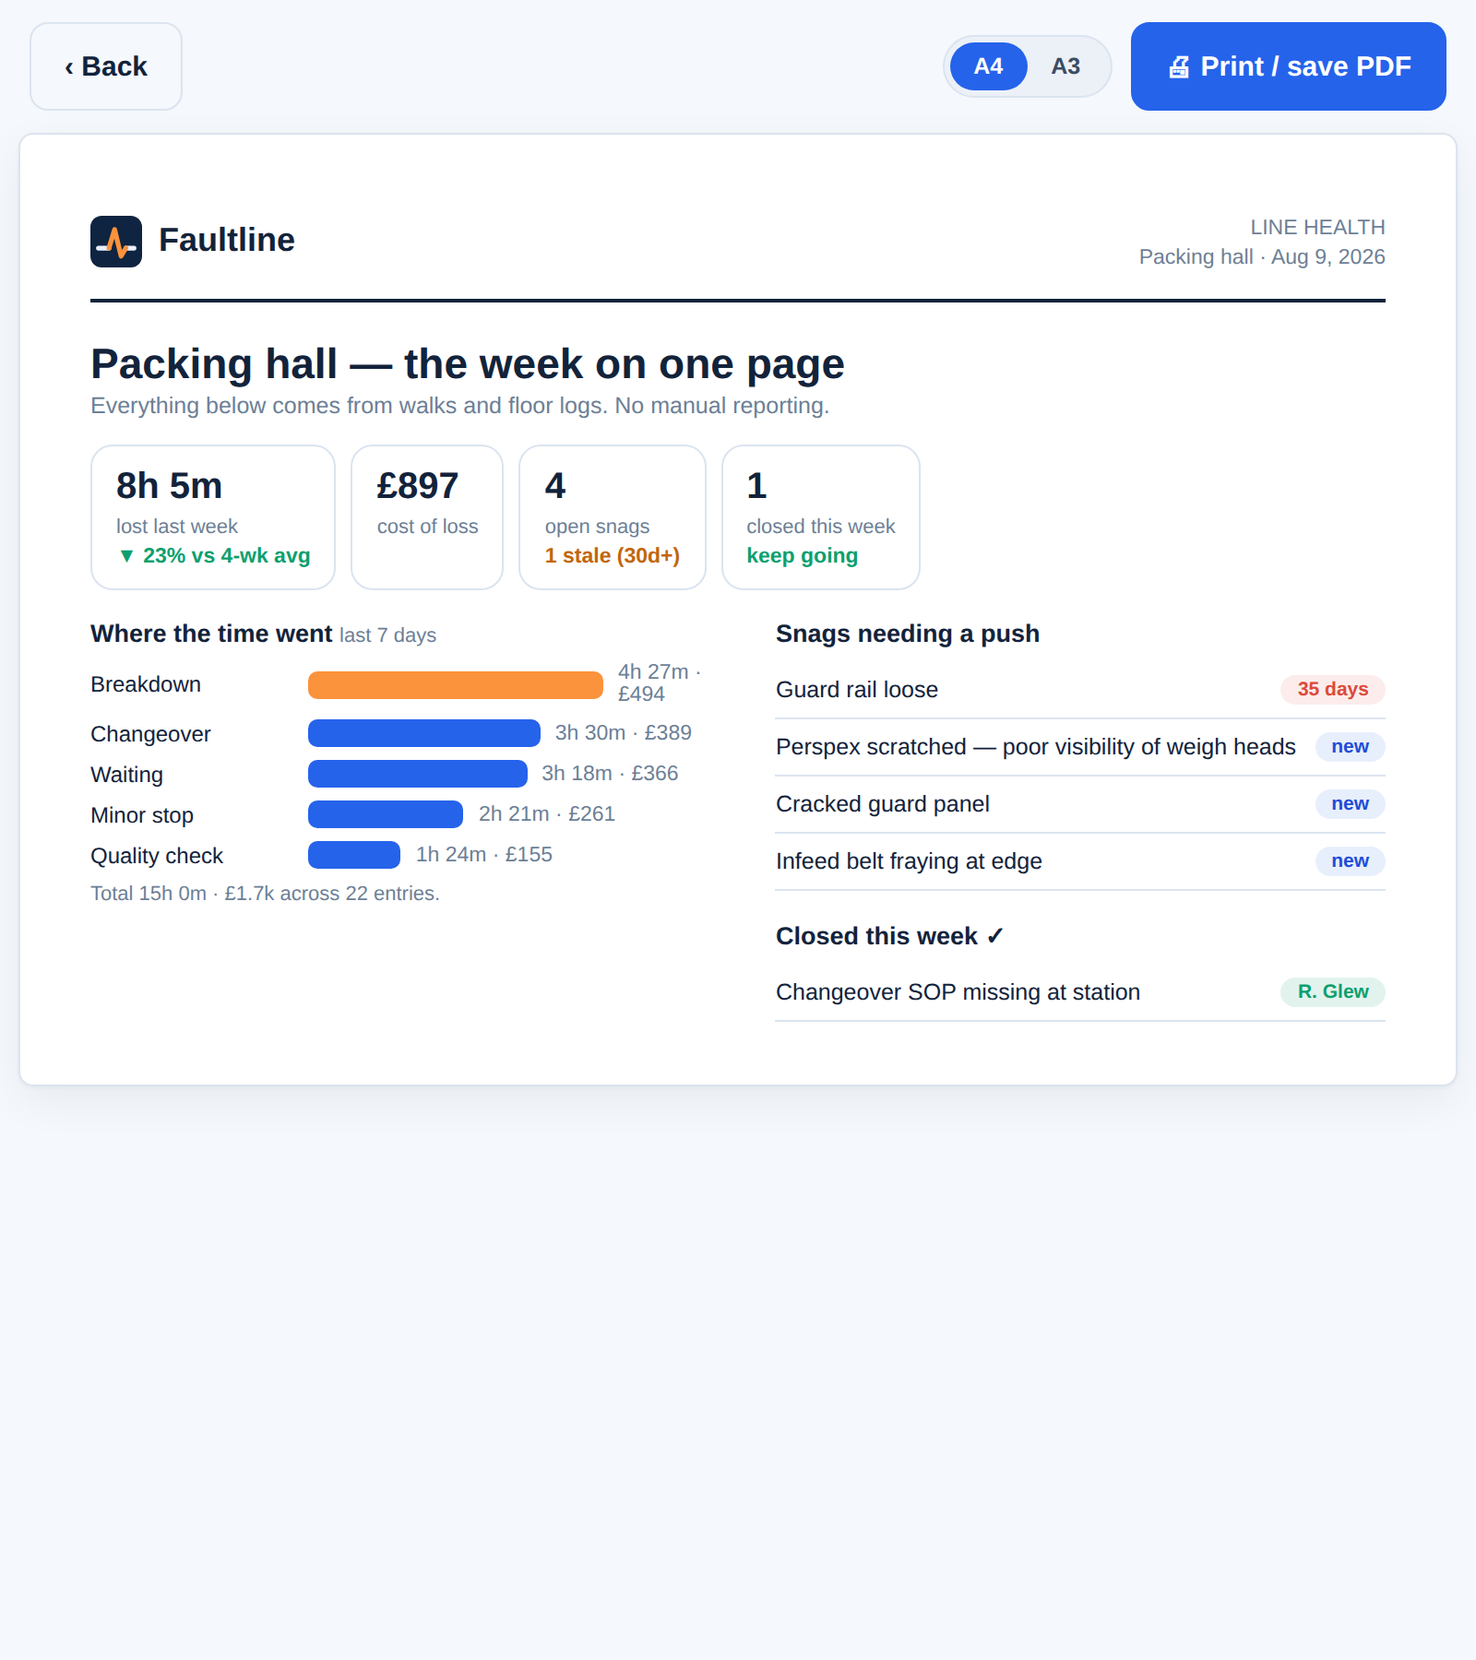
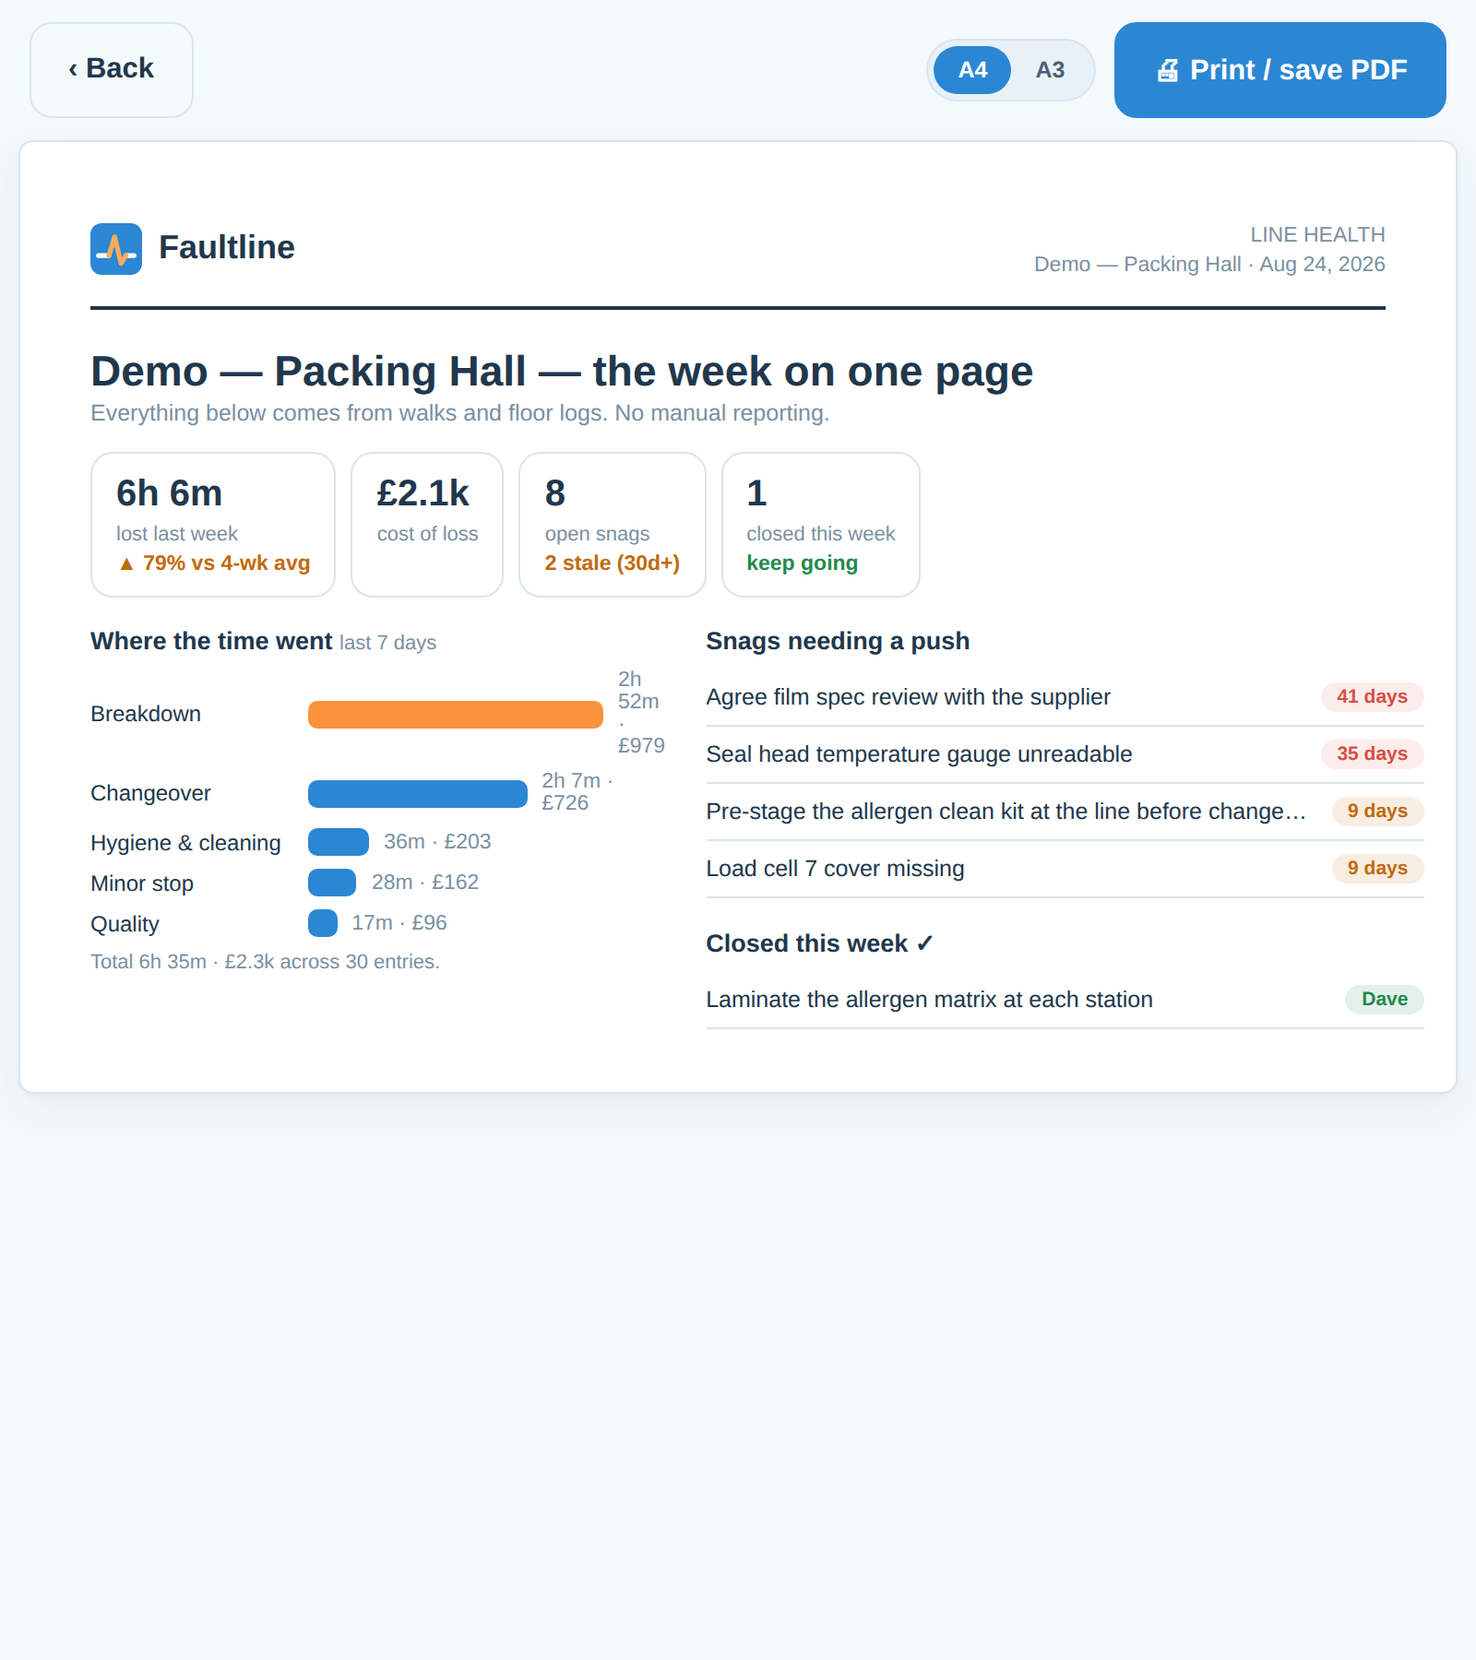
The guide moves onto the landing page — real screens, new Line chapter
Nobody clicks links on a landing page, and plenty of visitors never press
play — so the how-it-works story now renders inline below the demo film:
the same chapters, real screens, one sentence each. One source of truth
(GuideContent.tsx) rendered on both the landing page and /guide, which
stays alive as the standalone shareable page for invitees.

- New Part 3 "The living line": the £-heat glow and the proof layer with
  receipts hanging on the machines — the tour finally shows the Line.
- All ten screenshots re-shot from the current seeded demo (the old set
  predated the calm redesign, the measure picker, the period chips and the
  Line entirely). History now shows a genuine then-vs-now: two walks side
  by side, snags closed since.
- "See how it works" on the hero smooth-scrolls to the inlined story; the
  video fallback text points at the screens below it.
- Removed two orphaned images (home.png, snaglist.png) nothing referenced.

Claude-Session: https://claude.ai/code/session_01R9xEKpKx4MhrwQdL2qfDqa

diff --git a/src/screens/GuideContent.tsx b/src/screens/GuideContent.tsx
@@ -1,0 +1,143 @@
+/* The "how it works" story — ONE source of truth, rendered in two places:
+ * inline on the landing page (the scroll-past-the-film pitch) and standalone
+ * at /guide (the page an invitee reads, and the link a consultant shares).
+ * Every picture is the real product, screenshotted from a seeded workspace,
+ * so what a customer sees here is exactly what they get. Images live in
+ * /guide and are deliberately NOT precached — first visits, not offline. */
+
+interface Step { n: string; title: string; body: string; img: string; wide?: boolean }
+/* The tour runs in the order you'd actually work: find the losses (Pareto),
+ * pin the faults (snags), stand on the line (the layers), then prove it and
+ * print it (reports). */
+const CHAPTERS: Array<{ part: string; label: string; lede: string; steps: Step[] }> = [
+  {
+    part: 'Part 1', label: 'The Pareto system',
+    lede: 'Log what you see on the floor, and the losses rank themselves.',
+    steps: [
+      {
+        n: '1', img: 'capture',
+        title: 'Walk the line. Log what you see.',
+        body: 'Tap the asset, tap what you saw, put a time to it — stopwatch it live, type it, or just log that it happened. Photo or video evidence attaches in one tap. It works with no signal; everything syncs itself later.',
+      },
+      {
+        n: '2', img: 'pareto',
+        title: 'See where the line is bleeding — in hours and pounds.',
+        body: 'Every log lands on a live Pareto: the vital few problems ranked by lost time and what they cost in idle labour. The big bar on the left is where your week is going.',
+      },
+      {
+        n: '3', img: 'drill',
+        title: 'Tap a bar. Ask why.',
+        body: 'Drill from the problem into the kind of problem, the machine it lives on, the shift it bites hardest. Three taps from "we lose time to changeovers" to "size changes on the filler, on lates". That\'s where the fix goes.',
+      },
+      {
+        n: '4', img: 'present', wide: true,
+        title: 'Present it. Boardroom standard, straight from the floor.',
+        body: 'One tap turns the same live numbers into a full-screen stage — headline hours and cost, the ranked bars, the story so far. No export, no slide deck, no "let me get back to you".',
+      },
+    ],
+  },
+  {
+    part: 'Part 2', label: 'The snag system',
+    lede: 'Film the walk, and pin every fault to the exact spot on the machine.',
+    steps: [
+      {
+        n: '5', img: 'asset',
+        title: 'Film the walk. Pin the faults.',
+        body: "Film the line on your phone, freeze any frame into a named machine, and drop a red dot exactly where the problem is. Every snag gets an owner, a status, and an age — so it can't quietly rot in a notebook.",
+      },
+      {
+        n: '6', img: 'history',
+        title: 'The same machine, then vs now.',
+        body: 'Walk the line again next month and Faultline lines the walks up: the same machine side by side across time, snags visibly closed, new ones visibly appearing, and the one that\'s been open 200 days impossible to ignore.',
+      },
+    ],
+  },
+  {
+    part: 'Part 3', label: 'The living line',
+    lede: 'Your machines in floor order — and every number lands on the machine it belongs to.',
+    steps: [
+      {
+        n: '7', img: 'line',
+        title: 'The line itself, glowing where it hurts.',
+        body: 'Every marked machine becomes a card in walking order, built straight from your own footage. Flip to £ heat and the machine bleeding most literally glows — the Pareto\'s verdict, standing on the equipment that earned it.',
+      },
+      {
+        n: '8', img: 'line-proof',
+        title: 'Receipts, hanging on the machines.',
+        body: 'The proof layer puts each case where it physically lives: a proven fix wears its ✓ £/week receipt on the machine it fixed, and the case still being worked says so. Tap either and you\'re on its A3.',
+      },
+    ],
+  },
+  {
+    part: 'Part 4', label: 'The report system',
+    lede: 'Proof it\'s working — without writing a single report.',
+    steps: [
+      {
+        n: '9', img: 'trend',
+        title: 'Prove it\'s getting better.',
+        body: 'Lost hours per week, falling — with a green flag on the week each fix landed. And the honest list underneath: which losses are responding, and which are flat and need a different idea.',
+      },
+      {
+        n: '10', img: 'report', wide: true,
+        title: 'The week on one page.',
+        body: 'One tap turns it all into a clean page — lost time, cost, who closed what, what needs a push — ready to print (A4 or A3) or save as a PDF for Monday\'s meeting. No manual reporting, ever.',
+      },
+    ],
+  },
+];
+
+const EXPECT: Array<[string, string]> = [
+  ['Invite-only', 'No public sign-up. Your admin invites you by email; you set your own password.'],
+  ['Your workspace, your team', 'Every workspace is its own room. Whoever opens it chooses who\'s in it — add a colleague by email in Settings and they get the whole history, not just what happens next.'],
+  ['Works offline', 'Capture with no signal on the floor. It saves on the device and syncs itself when you\'re back in coverage.'],
+  ['Syncs by itself', 'No sync buttons. Log on the phone, and it\'s on the laptop seconds later.'],
+  ['Phone footage just works', 'Videos are converted on the way in so they play on every device — laptops included.'],
+  ['Install it like an app', 'Add it to your home screen from the browser — it opens full-screen and works like a native app.'],
+  ['The trend takes two weeks', 'Honest charts need history. Capture for a couple of weeks and "Is it getting better?" starts telling the truth.'],
+];
+
+export function GuideChapters() {
+  return (
+    <>
+      {CHAPTERS.map(ch => (
+        <section key={ch.part} className="guide-chapter">
+          <div className="guide-chapter-head">
+            <span className="guide-chapter-part">{ch.part}</span>
+            <h2 className="guide-chapter-title">{ch.label}</h2>
+            <p className="guide-chapter-lede">{ch.lede}</p>
+          </div>
+          <div className="guide-steps">
+            {ch.steps.map(s => (
+              <div key={s.n} className={'guide-step' + (s.wide ? ' wide' : '')}>
+                <div className="guide-copy">
+                  <span className="guide-n">{s.n}</span>
+                  <h2>{s.title}</h2>
+                  <p>{s.body}</p>
+                </div>
+                <div className={'guide-shot' + (s.wide ? ' wide' : '')}>
+                  <img src={`/guide/${s.img}.png`} alt={s.title} loading="lazy" />
+                </div>
+              </div>
+            ))}
+          </div>
+        </section>
+      ))}
+    </>
+  );
+}
+
+export function GuideExpect() {
+  return (
+    <section className="guide-expect">
+      <h2>What to expect</h2>
+      <div className="guide-expect-grid">
+        {EXPECT.map(([t, d]) => (
+          <div key={t} className="guide-expect-item">
+            <b>{t}</b>
+            <span>{d}</span>
+          </div>
+        ))}
+      </div>
+    </section>
+  );
+}

diff --git a/src/screens/GuideScreen.tsx b/src/screens/GuideScreen.tsx
@@ -1,84 +1,10 @@
-/* The public "how it works" tour — reachable signed OUT (it's the page an
- * invitee reads before creating their account) and from inside the app. Every
- * picture is the real product, screenshotted from a seeded workspace, so what
- * a customer sees here is exactly what they get. Images live in /guide and are
- * deliberately NOT precached — this page is for first visits, not offline. */
+/* The public "how it works" page — reachable signed OUT (it's the page an
+ * invitee reads before creating their account, and the link a consultant
+ * shares on its own). The story itself lives in GuideContent, shared with
+ * the landing page — one source of truth, two doors. */
 import { nav } from '../state/useRoute';
 import { LogoMark } from '../ui/Logo';
-
-interface Step { n: string; title: string; body: string; img: string; wide?: boolean }
-/* The tour runs in the order you'd actually work: find the losses (Pareto),
- * pin the faults (snags), then prove it and print it (reports). */
-const CHAPTERS: Array<{ part: string; label: string; lede: string; steps: Step[] }> = [
-  {
-    part: 'Part 1', label: 'The Pareto system',
-    lede: 'Log what you see on the floor, and the losses rank themselves.',
-    steps: [
-      {
-        n: '1', img: 'capture',
-        title: 'Walk the line. Log what you see.',
-        body: 'Tap the asset, tap what you saw, put a time to it — stopwatch it live, type it, or just log that it happened. Photo or video evidence attaches in one tap. It works with no signal; everything syncs itself later.',
-      },
-      {
-        n: '2', img: 'pareto',
-        title: 'See where the line is bleeding — in hours and pounds.',
-        body: 'Every log lands on a live Pareto: the vital few problems ranked by lost time and what they cost in idle labour. The big bar on the left is where your week is going.',
-      },
-      {
-        n: '3', img: 'drill',
-        title: 'Tap a bar. Ask why.',
-        body: 'Drill from the problem into the kind of problem, the machine it lives on, the shift it bites hardest. Three taps from "we lose time to changeovers" to "size changes on the filler, on lates". That\'s where the fix goes.',
-      },
-      {
-        n: '4', img: 'present', wide: true,
-        title: 'Present it. Boardroom standard, straight from the floor.',
-        body: 'One tap turns the same live numbers into a full-screen stage — headline hours and cost, the ranked bars, the story so far. No export, no slide deck, no "let me get back to you".',
-      },
-    ],
-  },
-  {
-    part: 'Part 2', label: 'The snag system',
-    lede: 'Film the walk, and pin every fault to the exact spot on the machine.',
-    steps: [
-      {
-        n: '5', img: 'asset',
-        title: 'Film the walk. Pin the faults.',
-        body: "Film the line on your phone, freeze any frame into a named machine, and drop a red dot exactly where the problem is. Every snag gets an owner, a status, and an age — so it can't quietly rot in a notebook.",
-      },
-      {
-        n: '6', img: 'history',
-        title: 'The same machine, then vs now.',
-        body: 'Walk the line again next month and Faultline lines the walks up: the same machine side by side across time, snags visibly closed, new ones visibly appearing, and the one that\'s been open 200 days impossible to ignore.',
-      },
-    ],
-  },
-  {
-    part: 'Part 3', label: 'The report system',
-    lede: 'Proof it\'s working — without writing a single report.',
-    steps: [
-      {
-        n: '7', img: 'trend',
-        title: 'Prove it\'s getting better.',
-        body: 'Lost hours per week, falling — with a green flag on the week each fix landed. And the honest list underneath: which losses are responding, and which are flat and need a different idea.',
-      },
-      {
-        n: '8', img: 'report', wide: true,
-        title: 'The week on one page.',
-        body: 'One tap turns it all into a clean page — lost time, cost, who closed what, what needs a push — ready to print (A4 or A3) or save as a PDF for Monday\'s meeting. No manual reporting, ever.',
-      },
-    ],
-  },
-];
-
-const EXPECT: Array<[string, string]> = [
-  ['Invite-only', 'No public sign-up. Your admin invites you by email; you set your own password.'],
-  ['Your workspace, your team', 'Every workspace is its own room. Whoever opens it chooses who\'s in it — add a colleague by email in Settings and they get the whole history, not just what happens next.'],
-  ['Works offline', 'Capture with no signal on the floor. It saves on the device and syncs itself when you\'re back in coverage.'],
-  ['Syncs by itself', 'No sync buttons. Log on the phone, and it\'s on the laptop seconds later.'],
-  ['Phone footage just works', 'Videos are converted on the way in so they play on every device — laptops included.'],
-  ['Install it like an app', 'Add it to your home screen from the browser — it opens full-screen and works like a native app.'],
-  ['The trend takes two weeks', 'Honest charts need history. Capture for a couple of weeks and "Is it getting better?" starts telling the truth.'],
-];
+import { GuideChapters, GuideExpect } from './GuideContent';
 
 export function GuideScreen() {
   return (
@@ -96,41 +22,8 @@ export function GuideScreen() {
           below is the real app.
         </p>
 
-        {CHAPTERS.map(ch => (
-          <section key={ch.part} className="guide-chapter">
-            <div className="guide-chapter-head">
-              <span className="guide-chapter-part">{ch.part}</span>
-              <h2 className="guide-chapter-title">{ch.label}</h2>
-              <p className="guide-chapter-lede">{ch.lede}</p>
-            </div>
-            <div className="guide-steps">
-              {ch.steps.map(s => (
-                <div key={s.n} className={'guide-step' + (s.wide ? ' wide' : '')}>
-                  <div className="guide-copy">
-                    <span className="guide-n">{s.n}</span>
-                    <h2>{s.title}</h2>
-                    <p>{s.body}</p>
-                  </div>
-                  <div className={'guide-shot' + (s.wide ? ' wide' : '')}>
-                    <img src={`/guide/${s.img}.png`} alt={s.title} loading="lazy" />
-                  </div>
-                </div>
-              ))}
-            </div>
-          </section>
-        ))}
-
-        <section className="guide-expect">
-          <h2>What to expect</h2>
-          <div className="guide-expect-grid">
-            {EXPECT.map(([t, d]) => (
-              <div key={t} className="guide-expect-item">
-                <b>{t}</b>
-                <span>{d}</span>
-              </div>
-            ))}
-          </div>
-        </section>
+        <GuideChapters />
+        <GuideExpect />
 
         <section className="guide-cta">
           <h2>Been invited?</h2>

diff --git a/src/screens/Landing.tsx b/src/screens/Landing.tsx
@@ -7,6 +7,7 @@ import { useState } from 'react';
 import { LogoMark } from '../ui/Logo';
 import { nav } from '../state/useRoute';
 import { signIn, signUp } from '../cloud/session';
+import { GuideChapters, GuideExpect } from './GuideContent';
 
 /* The four verbs — the whole system, in the order a week runs. One door
  * (the ops buyer's); the ledger's marketing rules live in PRODUCT.md. */
@@ -85,8 +86,8 @@ export function Landing() {
             the floor, then syncs to every teammate you invite. No sensors, no
             integrations, no IT project.
           </p>
-          <button className="landing-guide-link" onClick={() => nav('/guide')}>
-            See how it works — real screens, two minutes ›
+          <button className="landing-guide-link" onClick={() => document.getElementById('how-it-works')?.scrollIntoView({ behavior: 'smooth' })}>
+            See how it works — real screens, two minutes ↓
           </button>
         </section>
 
@@ -142,8 +143,25 @@ export function Landing() {
           {/* mp4 first: iPhones and iPads don't play VP8 webm */}
           <source src="/demo/tutorial.mp4" type="video/mp4" />
           <source src="/demo/tutorial.webm" type="video/webm" />
-          Your browser can't play this clip — the guide link above tells the same story.
+          Your browser can't play this clip — the screens below tell the same story.
         </video>
+      </section>
+
+      {/* The same story for scrollers (owner decision, Aug 2026): the guide's
+          real-screen chapters render inline — nobody clicks links on a landing
+          page, and plenty of visitors never press play. /guide stays alive as
+          the standalone, shareable copy of exactly this content. */}
+      <section className="landing-how" id="how-it-works">
+        <h2 className="landing-demo-h">Or scroll it — the real screens</h2>
+        <p className="sub landing-demo-sub">
+          The same story, picture by picture. Every screen below is the live
+          product, not a mock-up.
+        </p>
+        <GuideChapters />
+        <GuideExpect />
+        <button className="landing-guide-link" onClick={() => nav('/guide')}>
+          Want this as its own page to share? Open the guide ›
+        </button>
       </section>
     </div>
   );

diff --git a/src/styles.css b/src/styles.css
@@ -1298,6 +1298,10 @@ button { font-family: inherit; }
 .landing-demo-h { font-size: clamp(22px, 3vw, 30px); font-weight: 800; letter-spacing: -0.02em; }
 .landing-demo-sub { max-width: 640px; margin: 8px auto 18px; line-height: 1.5; }
 .landing-demo video { width: 100%; border-radius: 16px; border: 1px solid var(--line); box-shadow: var(--shadow); display: block; background: var(--surface); }
+/* the inlined guide — same chapters as /guide, centred header, left-set story */
+.landing-how { width: 100%; max-width: 860px; margin: 0 auto 56px; padding: 0 24px; }
+.landing-how > .landing-demo-h, .landing-how > .landing-demo-sub { text-align: center; }
+.landing-how .landing-guide-link { display: block; margin: 26px auto 0; text-align: center; }
 @media (max-width: 800px) {
   .landing-demo { margin: 28px auto 36px; padding: 0 16px; }
   .landing-demo video { border-radius: 12px; }

diff --git a/docs/PRODUCT.md b/docs/PRODUCT.md
@@ -320,6 +320,14 @@ Three parts, each a distinct thing:
 - **The landing page plays the SAME film** — one video, everywhere. There
   is no separate marketing cut (owner decision, Aug 2026: "remove all demos
   apart from the correct 1").
+- **The guide renders INLINE on the landing page** (owner decision, Aug
+  2026): nobody clicks links on a landing page and plenty never press play,
+  so the /guide chapters — real screens, one sentence each — are the scroll
+  story below the film. ONE source of truth (GuideContent.tsx) rendered in
+  both places; /guide stays alive as the standalone, shareable copy. The
+  screenshots are re-shot from the seeded demo whenever the UI meaningfully
+  changes (scratchpad guide-shots.js), and the tour now includes the Line
+  chapter (£ heat + proof layers).
 - **The script arms the presenter** (docs/DEMO_SCRIPT.md): the beats with
   say-this lines, the numbers to have cold, one-breath objection answers,
   and the recovery moves. The live phone-capture beat — a log on the phone
